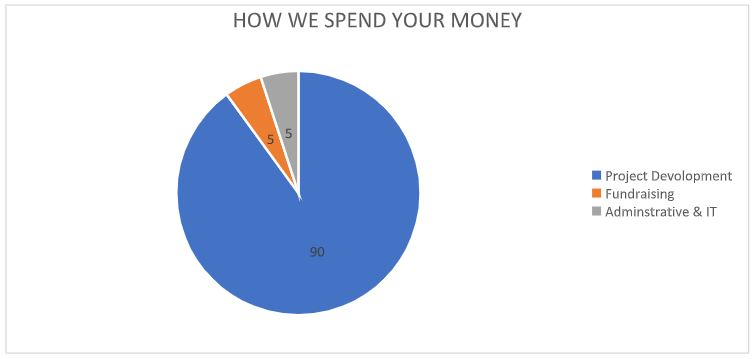
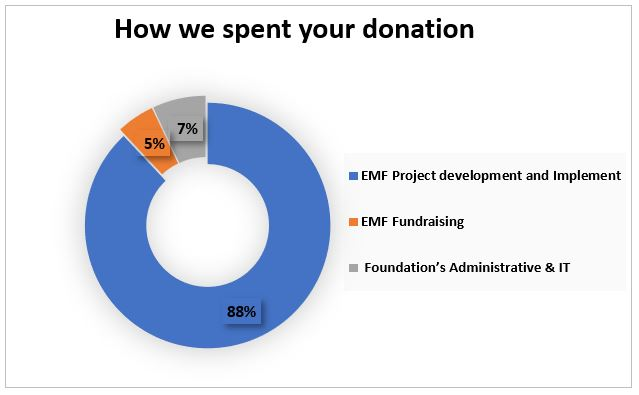
spend money and what makes us a part

Changed region(s): [[0.0297, 0.0306, 1.0, 1.0], [0.1784, 0.0306, 0.7433, 0.1226]]

diff --git a/resources/views/frontend/about/whatMakesUsApart.blade.php b/resources/views/frontend/about/whatMakesUsApart.blade.php
@@ -150,12 +150,14 @@
                                                                 </div>
                                                                 <div class="col-xl-7">
                                                                     <div class="mission-vision-content-box1">
-                                                                        <h2>The following values reinforce everything we do in order to achieve our Vision across the M22 Doctors’ Foundation.</h2>
+                                                                        <h2>Achieve our Vision across the “Engineer Moqbul Foundation (EMF)” through our values.</h2>
                                                                         <ul>
-                                                                            <li><span class="fa fa-check"></span>TRUST: We build relationships by acting with integrity, honesty, and transparency.</li>
-                                                                            <li><span class="fa fa-check"></span>PARTNERSHIP: We work with collaboration to achieve our vision.</li>
-                                                                            <li><span class="fa fa-check"></span>RESPECT: We value when people give their time, treasure and effort, to good causes.</li>
-                                                                            <li><span class="fa fa-check"></span>SUSTAINABILITY: We strive for and promote sustainability in all we do.</li>
+                                                                            <li><span class="fa fa-check"></span>TRUST: Building relationship based on authenticity, Actionable change, Adaptability.</li>
+                                                                            <li><span class="fa fa-check"></span>PARTNERSHIP: Work with collaboration to meet our vision.</li>
+                                                                            <li><span class="fa fa-check"></span>RESPECT: Treating all people with dignity and respect.</li>
+                                                                            <li><span class="fa fa-check"></span>INNOVATIVE: Embracing continuous improvement bold creativity and change.</li>
+                                                                            <li><span class="fa fa-check"></span>ETHICS: Striving to meet the highest ethical standard .</li>
+                                                                            <li><span class="fa fa-check"></span>SUSTAINABILITY: Strive and promote sustainability in all we do.</li>
                                                                         </ul>
                                                                         {{-- <div class="btn-box">
                                                                             <a class="btn-one"
@@ -182,28 +184,56 @@
                                                                 </div>
                                                                 <div class="col-xl-7">
                                                                     <div class="mission-vision-content-box1">
-                                                                        <h2>The following  activities will be carried out in achievement of the aim and objectives of the foundation.</h2>
+                                                                        <h2>The following activities will be carried out in achievement of the aim and objectives of the foundation.</h2>
                                                                         <ul>
-                                                                            <li><span class="fa fa-check"></span>To plan, promote, organize and implement the specific humanitarian or benevolent program among the underprivileged rural or urban people of Bangladesh to create a sustainable community welfare.
-                                                                            </li>
-                                                                            <li><span class="fa fa-check"></span>To make the people conscious and sensible of their own problems and position in the society and to help create in them such spirit and motivation as would enable them to look after themselves and solve their own problems.</li>
-                                                                            <li><span class="fa fa-check"></span>To deliver quality healthcare services to the rural or urban people of Bangladesh at an affordable price.
-                                                                            </li>
-                                                                            <li><span class="fa fa-check"></span>To carry out various activities and programs for improving the standard of living of the rural senior citizens and the psychically challenged people.
-                                                                            </li>
-                                                                            <li><span class="fa fa-check"></span>To work on the field of School health and Nutrition for the school going children. [Food for study program].</li>
-                                                                            <li><span class="fa fa-check"></span>To improve the nutritional deficit of rural people of Bangladesh establishing through networks of Community Kitchen. [Nutrition for health program]</li>
-                                                                            <li><span class="fa fa-check"></span>The Foundation shall carry on countrywide health screening & health awareness program among the poor people of Bangladesh establishing through networks of charitable secondary care hospitals & primary healthcare clinics to identify the non-communicable diseases (NCD) & thereby reducing the burden of the complications of the NCD (Non communicable Diseases).</li>
-                                                                            <li><span class="fa fa-check"></span>To promote small scale Rural Entrepreneur to setup cottage, micro and small enterprises, so a group of underprivileged people shall be benefited & self-reliant as well. .</li>
-                                                                            <li><span class="fa fa-check"></span>To encourage and help people to organize themselves in groups or co-operatives to facilitate income generating and other social and economic development activities.</li>
-                                                                            <li><span class="fa fa-check"></span>To set up a network of ‘Vocational Training Centers’ for providing Information technology and other technical education to underprivileged rural and urban unemployed youth.</li>
-                                                                            <li><span class="fa fa-check"></span>To establish, manage and support schools, community libraries, physical training institutes, need based research & training foundations, healthcare institutes to improve the quality of basic educations, growing reading habit and physical finesses for the poor and underprivileged community.</li>
-                                                                            <li><span class="fa fa-check"></span>To undertake & carryout welfare, relief, rehabilitation and development activities for the benefit of the poor.</li>
-                                                                            <li><span class="fa fa-check"></span>To appoint and employ advisors and consultants both home and abroad as shall be deemed necessary by the foundation to carry out the objective of the foundation more effectively.</li>
-                                                                            <li><span class="fa fa-check"></span>To undertake any revenue generation project either directly or in association with other partners, the profit of which shall be used for the objectives of the foundation </li>
-                                                                            <li><span class="fa fa-check"></span>To identify, develop and promote opportunities for facilitating employment and income for the poor by channeling resources for providing them with education, skills development training, credit and other help and assistance as may be deemed necessary.</li>
-                                                                            <li><span class="fa fa-check"></span>The foundation shall undertake emergency relief work, emergency health care/medical treatment including health campaign and rehabilitation activities in case of natural disaster.</li>
-                                                                            <li><span class="fa fa-check"></span>The scope of the future activities of the Foundation shall be determined by the GC (General Council) in AGM (Annual General Meeting) or an emergency GC meeting.</li>
+                                                                            <li><span class="fa fa-check"></span>	To undertake and carry on any humanitarian or charitable program for the poor and under privileged people.</li>
+                                                                            <li><span class="fa fa-check"></span>	To take programs to distribute relief among the neglected and the disaster stricken in the event of any natural calamity like flood, storm, cyclone, earth quack, tsunami.</li>
+                                                                            <li><span class="fa fa-check"></span>	To make awareness among the poor people in the under privileged society regarding their beneficial program.</li>
+                                                                            <li><span class="fa fa-check"></span>	To establish libraries, reading rooms, study centers for developing the habit of study, which is very much beneficial for the society.</li>
+                                                                            <li><span class="fa fa-check"></span>	To publish rare/old manuscript of the lost folklore of the country including the myth books after being collected.</li>
+                                                                            <li><span class="fa fa-check"></span>	To arrange exhibition for art, cultural and painting through display centre/museum and mobile museum and to initiate distance learning methods as well as innovative ideas and methods for development of education and other improvements.</li>
+                                                                            <li><span class="fa fa-check"></span>	To display sculpture/collection of paintings through museum and mobile museum.</li>
+                                                                            <li><span class="fa fa-check"></span>	To establish educational institution of fine arts.</li>
+                                                                            <li><span class="fa fa-check"></span>	To undertake motivational work among the mass people to create awareness in literature, art, culture, science, environmental and wealth sector.</li>
+                                                                            <li><span class="fa fa-check"></span>	To encourage people to adopt and sustain health promoting life style and practices.</li>
+                                                                            <li><span class="fa fa-check"></span>	To promote the proper use of the health services available to them.</li>
+                                                                            <li><span class="fa fa-check"></span>	To stimulate individual and community self-reliance and participation to achieve health development through individual and community involvement at every step from identifying problems to solving them.</li>
+                                                                            <li><span class="fa fa-check"></span>	Intends to provide all the health facilities likes vaccination, treatment campaign, Sanitation, needed by the people at their door steps on the assumption that people would use them to improve their own health.</li>
+                                                                            <li><span class="fa fa-check"></span>	To undertake programs of educational research on archaeology and historical relics.</li>
+                                                                            <li><span class="fa fa-check"></span>	To distribute books free of cost among the poor students of madrasa, school, college and university to promote quality education.</li>
+                                                                            <li><span class="fa fa-check"></span>	To establish, run and maintain school, college, madrasa, university and other educational institution, both general and technical, among the people or target group.</li>
+                                                                            <li><span class="fa fa-check"></span>	Over all education advancement.</li>
+                                                                            <li><span class="fa fa-check"></span>	To provide with any sort of support to under privileged women, young stars and persons in the society.</li>
+                                                                            <li><span class="fa fa-check"></span>	To promote modern technologies to empower the poor rural community and people in marginal livelihoods.</li>
+                                                                            <li><span class="fa fa-check"></span>	To support, conduct, and manage training programs, seminars, workshops and to promote interaction amongst different institutions and individuals both in home and abroad for attaining the object of the foundation.</li>
+                                                                            <li><span class="fa fa-check"></span>	For the furtherance of the objects of the foundation to undertake publication programs, to communicate with all sections of foundation, to draw their attention to the problems situation of the poor-beneficiaries, and to motivate them to look for solutions to these problems.</li>
+                                                                            <li><span class="fa fa-check"></span>	To offer or avail training, consultancy and other services to or from other national and international organizations.</li>
+                                                                            <li><span class="fa fa-check"></span>	To establish, undertake, superintend, administer and control, subsidize and contribute to any provident, benevolent or charitable funds to or from which may be made in gifts, grants, donations and advances, and to make and give gifts, donations, grants and advances to charitable or benevolent institutions in order to further the objects of the society.</li>
+                                                                            <li><span class="fa fa-check"></span>	To promote, establish, manage control, supervise, to give gifts, grants, or other assistance to any person, company, co-operative society or association or to persons as may seem to the society conducive or to achieve or to further any of the objects and purposes of the society.</li>
+                                                                            <li><span class="fa fa-check"></span>	To undertake and execute any trusts which may seem to the society conducive to any of the objects and purposes of the foundation.</li>
+                                                                            <li><span class="fa fa-check"></span>	To receive and accept gifts, grants, aids, donations, of any nature and kind whatsoever  and to arrange, establish, and maintain funds, properties, and assets towards the objective of the foundation and to take program of health and Sanitation.</li>
+                                                                            <li><span class="fa fa-check"></span>	To Giving Training to develop for construction workers, Nursing, swing, Garments related works like handicrafts and giving certificates.</li>
+                                                                            <li><span class="fa fa-check"></span>	To promote, organize and establish branches and offices of the foundation wherever considered necessary and to manage and control such branches and offices and to delegate such powers and functions to branches and offices as may be considered necessary for the promotion of the object and purposes of the function.</li>
+                                                                            <li><span class="fa fa-check"></span>	To open and operate any account with the any schedule banks or financing institutions   and to authorize persons or person to operate these accounts and obtain credit facilities there from.</li>
+                                                                            <li><span class="fa fa-check"></span>	To undertake promote, aid, guide, organize and co-ordinate projects/programs to increase the literacy rate, wealth and family welfare services, empower women, minimize gender inequalities, and to enhance safe -water management services, disaster management services, bio-diversity, Plantation, forest restoration & environmental development Services.</li>
+                                                                            <li><span class="fa fa-check"></span>	To promote modern technologies to empower the poor rural community and people in marginal livelihoods.</li>
+                                                                            <li><span class="fa fa-check"></span>	To acquire aid from government, private organizations and/or international organizations and to manage the whole or any part of various firm’s, equipment, research stations, storage and/or such other facilities which will help to alleviate poverty.</li>
+                                                                            <li><span class="fa fa-check"></span>	To support, conduct, and manage training programs, seminars, workshops and to promote interaction amongst different institutions and individuals both in home and abroad for attaining the object of the foundation.</li>
+                                                                            <li><span class="fa fa-check"></span>	For the furtherance of the objects of the foundation to undertake publication programs, to communicate with all sections of foundation, to draw their attention to the problems situation of the poor-beneficiaries, and to motivate them to look for solutions to these problems.</li>
+                                                                            <li><span class="fa fa-check"></span>	To offer or avail training, consultancy and other services to or from other national and international organizations.</li>
+                                                                            <li><span class="fa fa-check"></span>	To establish, undertake, superintend, administer and control, subsidize and contribute to any provident, benevolent or charitable funds to or from which may be made in gifts, grants, donations and advances, and to make and give gifts, donations, grants and advances to charitable or benevolent institutions in order to further the objects of the society.</li>
+                                                                            <li><span class="fa fa-check"></span>	To promote, establish, manage control, supervise, to give gifts, grants, or other assistance to any person, company, co-operative society or association or to persons as may seem to the society conducive or to achieve or to further any of the objects and purposes of the society.</li>
+                                                                            <li><span class="fa fa-check"></span>	To undertake and execute any trusts which may seem to the society conducive to any of the objects and purposes of the foundation.</li>
+                                                                            <li><span class="fa fa-check"></span>	To receive and accept gifts, grants, aids, donations, of any nature and kind whatsoever  and to arrange, establish, and maintain funds, properties, and assets towards the objective of the foundation and to take program of health and Sanitation.</li>
+                                                                            <li><span class="fa fa-check"></span>	To Giving Training to develop for construction workers, Nursing, swing, Garments related works like handicrafts and giving certificates.</li>
+                                                                            <li><span class="fa fa-check"></span>	To promote, organize and establish branches and offices of the foundation wherever considered necessary and to manage and control such branches and offices and to delegate such powers and functions to branches and offices as may be considered necessary for the promotion of the object and purposes of the function.</li>
+                                                                            <li><span class="fa fa-check"></span>	To open and operate any account with the any schedule banks or financing institutions   and to authorize persons or person to operate these accounts and obtain credit facilities there from.</li>
+                                                                            <li><span class="fa fa-check"></span>	To support institution-building and the expansion of the existing institutional capacity, which is aimed at improving access to resources for the poor/beneficiaries for the promotion of objects and purposes of the foundation.</li>
+                                                                            <li><span class="fa fa-check"></span>	To obtain membership and to pay fees for the membership of any national or international bodies, institutions or organizations and to subscribe to their publications, if any, for furthering the objects and purposes of the foundation.</li>
+                                                                            <li><span class="fa fa-check"></span>	To procure for the foundation registration or recognition of the Government or any other concerned authority in the country or abroad, and/or take all such steps as may be necessary or expedient for enabling the foundation to carry on with its functions properly.</li>
+                                                                            <li><span class="fa fa-check"></span>	To arrange for suitable remuneration to any person, firm, association, organization for institution for services rendered or to be rendered in or about the promotion of the objects and purposes of the foundation.</li>
+                                                                            <li><span class="fa fa-check"></span>	To establish, run and support research institutions, laboratories, training centers, technical training centers, and school grants or stipends/scholarships for training in the country or abroad and do all such other thing as may be calculated benevolent for the foundation.</li>
+                                                                            <li><span class="fa fa-check"></span>	The scope of the future activities of the Foundation shall be determined by the GC (General Council) in AGM (Annual General Meeting) or an emergency GC meeting.</li>
                                                                         </ul>
                                                                         {{-- <div class="btn-box">
                                                                             <a class="btn-one"

diff --git a/resources/views/frontend/about/howWeSpendMony.blade.php b/resources/views/frontend/about/howWeSpendMony.blade.php
@@ -1,6 +1,6 @@
 @extends('frontend.master')
 
-@section('frontend_title', 'How we spend your money')
+@section('frontend_title', 'How we spend your donation')
 
 @section('frontend_main_content')
 
@@ -28,14 +28,14 @@
                             </div>
                         </div>
                         <div class="title">
-                            <h2>How we spend your money</h2>
+                            <h2>How we spend your donation</h2>
                         </div>
                         <div class="border-box"></div>
                         <div class="breadcrumb-menu">
                             <ul>
                                 <li><a href="/">Home</a></li>
                                 <li><span class="flaticon-right-arrow"></span></li>
-                                <li class="active">How we spend your money</li>
+                                <li class="active">How we spend your donation</li>
                             </ul>
                         </div>
                     </div>
@@ -52,22 +52,22 @@
         <div class="container">
             <div class="row">
                 <div class="col-xl-12">
-                    <h3>HOW WE SPEND YOUR MONEY:</h3>
+                    <h3>HOW WE SPEND YOUR DONATION:</h3>
 
-                    <p>Integrity, honesty, and transparency are central to our values as an organization. In fact, they are part of our core values. We’re committed to distribute your contributions among the marginal people of Bangladesh. We spent your money in the following areas: </p>
-                    <p>[1] Foundations project development: 90% </p>
-                    <p>[2] Fundraising: 05%</p>
-                    <p>[3] Administrative & Information technology: 05%</p>
+                    <p>Honesty, Respect, Integrity and transparency are central to our values as an organization. In fact, they are part of our core values. We’re confidently committed to distribute your contributions among the marginal people of Bangladesh. We spent your donation in the following areas: </p>
+                    <p>[1] Engineer Moqbul Foundation’s (EMF) project development and Implement: 88% </p>
+                    <p>[2] Engineer Moqbul Foundation’s (EMF) Fundraising: 05%</p>
+                    <p>[3] Foundation’s Administrative & Information technology: 07%</p>
                     <img src="{{asset('assets/images/money-spend.JPG')}}" alt="">
-                    <p>• We maintain the highest accountability standard in spending your money.</p>
+                    <p>• We ensure the highest accountability standard in spending your donation.</p>
                     <p>• We try to keep the lowest administrative expenditure.</p>
                     <div style="text-align: center">
                         <p>Do you have a question about our accountability measures?</p>
                         <a href="/contact-us" class="btn-one btn-one-style2">CONTACT US</a>
                         <br>
                         <br>
-                        <h3>M22 Doctors’ Foundation</h3>
-                        <h5>Updated: 11.03.2024</h5>
+                        <h3>Engineer Moqbul Foundation’s (EMF)</h3>
+                        <h5>Updated: 20.01.2025</h5>
                         <br>
                     </div>
                 </div>
